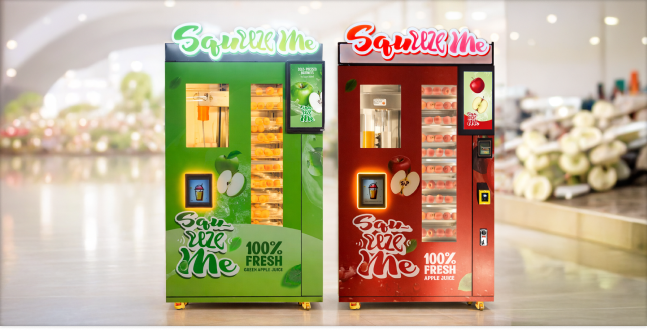
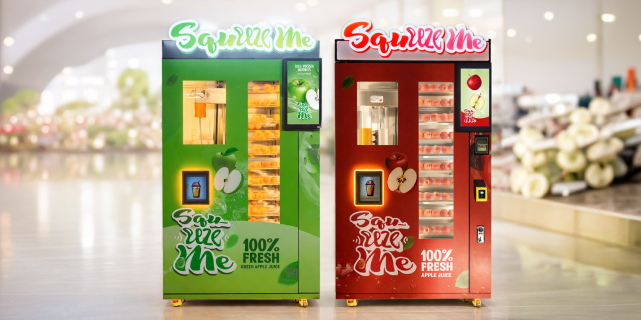
fixed homepage and make section similar to figma exactly

diff --git a/assets/css/style.css b/assets/css/style.css
@@ -178,28 +178,6 @@ ol {
   padding-right: var(--site-px);
 }
 
-.skip-link {
-  position: absolute;
-  left: 1rem;
-  top: 0.75rem;
-  z-index: 100;
-  padding: 0.5rem 0.875rem;
-  border-radius: 0.25rem;
-  background-color: var(--color-brand);
-  color: #fff;
-  font-size: 0.875rem;
-  font-weight: 600;
-  text-decoration: none;
-  transform: translateY(-200%);
-  transition: transform 0.15s ease;
-}
-
-.skip-link:focus {
-  transform: translateY(0);
-  outline: 2px solid #fff;
-  outline-offset: 2px;
-}
-
 .site-header {
   position: sticky;
   top: 0;
@@ -2483,7 +2461,7 @@ ol {
   position: absolute;
   z-index: 0;
   display: block;
-  top: clamp(22%, 17vh, 38%);
+  top: clamp(16%, 12vh, 30%);
   left: -22%;
   width: 145%;
   max-width: none;
@@ -2491,28 +2469,35 @@ ol {
   max-height: min(68vh, 44rem);
   object-fit: cover;
   object-position: 35% 56%;
-  transform: translateY(5.5%);
+  transform: translateY(3%);
   pointer-events: none;
   user-select: none;
 }
 
+@media (max-width: 899px) {
+  .om-section__strip {
+    display: none;
+  }
+}
+
 @media (min-width: 768px) {
   .om-section__strip {
-    top: clamp(20%, 15vh, 34%);
+    top: clamp(14%, 11vh, 28%);
     left: -18%;
     width: 128%;
     max-height: min(72vh, 48rem);
     object-position: 32% 54%;
-    transform: translateY(6.5%);
+    transform: translateY(4%);
   }
 }
 
 @media (min-width: 1100px) {
   .om-section__strip {
+    top: clamp(13%, 10vh, 26%);
     left: -14%;
     width: 118%;
     object-position: 30% 52%;
-    transform: translateY(6.5%);
+    transform: translateY(4%);
   }
 }
 
@@ -2536,46 +2521,77 @@ ol {
     gap: clamp(1.5rem, 3.5vw, 2.5rem);
     align-items: start;
   }
+
+  .om-section__media {
+    grid-column: 1;
+    grid-row: 1;
+  }
+
+  .om-section__copy {
+    grid-column: 2;
+    grid-row: 1;
+  }
 }
 
 .om-section__media {
   position: relative;
   z-index: 1;
+  overflow: visible;
+  margin-bottom: clamp(2.75rem, 9vw, 4.25rem);
 }
 
 .om-section__cards-row {
   position: relative;
   z-index: 3;
   list-style: none;
-  margin: clamp(1.1rem, 2.8vw, 1.5rem) 0 0;
+  margin: 0;
   padding: 0;
   display: grid;
-  grid-template-columns: 1fr;
   gap: 1rem;
   align-items: stretch;
 }
 
-@media (min-width: 640px) {
-  .om-section__cards-row {
-    grid-template-columns: repeat(3, minmax(0, 1fr));
+.om-section__cards-row--copy {
+  margin-top: clamp(1.25rem, 2.5vw, 1.75rem);
+  grid-template-columns: 1fr;
+}
+
+@media (min-width: 520px) {
+  .om-section__cards-row--copy {
+    grid-template-columns: repeat(2, minmax(0, 1fr));
     gap: 1.125rem;
-    align-items: stretch;
   }
 }
 
+.om-section__cards-row--aside {
+  position: absolute;
+  right: 19%;
+  bottom: 0;
+  z-index: 2;
+  width: min(14rem, 50%);
+  margin: 0;
+  grid-template-columns: 1fr;
+  transform: translate(50%, calc(50% + 0.4rem));
+}
+
 @media (min-width: 900px) {
-  .om-section__cards-row {
-    margin-top: clamp(-2rem, -4.5vw, -3.5rem);
+  .om-section__media {
+    margin-bottom: clamp(2rem, 4vw, 3rem);
+  }
+
+  .om-section__cards-row--aside {
+    width: 50%;
+    max-width: 13.5rem;
   }
 }
 
 .om-section__img {
   display: block;
   width: 100%;
-  max-width: 26rem;
+  max-width: 22rem;
   margin: 0 auto;
   height: auto;
-  aspect-ratio: 4 / 5;
+  aspect-ratio: 5 / 4;
   object-fit: cover;
   border-radius: 0.875rem;
   box-shadow: 0 18px 44px -14px rgb(0 0 0 / 0.32), 0 6px 16px -8px rgb(0 0 0 / 0.18);
@@ -2591,6 +2607,7 @@ ol {
 .om-section__copy {
   margin: 0;
   padding: 0;
+  min-width: 0;
 }
 
 .om-section__title {
@@ -2635,9 +2652,11 @@ ol {
 .om-feature {
   margin: 0;
   padding: 1.15rem 1.15rem 1.2rem;
-  border-radius: 0.875rem;
-  background: linear-gradient(180deg, #fff 0%, rgb(255 255 255 / 0.98) 55%, rgb(236 245 255 / 0.92) 100%);
-  box-shadow: 0 14px 36px -10px rgb(15 23 42 / 0.2), 0 4px 12px -6px rgb(15 23 42 / 0.1);
+  border-radius: 0.375rem;
+  background: #ffffffcc;
+  box-shadow: 0 0 4px 0 #0000001a;
+  -webkit-backdrop-filter: blur(60px);
+  backdrop-filter: blur(60px);
   border: 1px solid rgb(230 236 245 / 0.95);
 }
 

diff --git a/index.html b/index.html
@@ -63,6 +63,18 @@
               <img class="om-section__img" src="assets/images/laptop_working.png"
                 alt="Professional using a laptop with a digital interface" width="560" height="720" loading="lazy"
                 decoding="async" />
+              <ul class="om-section__cards-row om-section__cards-row--aside">
+                <li class="om-feature">
+                  <span class="om-feature__icon">
+                    <img class="om-feature__img" src="assets/images/reliable.png" alt="" width="48" height="48"
+                      loading="lazy" decoding="async" />
+                  </span>
+                  <h3 class="om-feature__title">Reliable</h3>
+                  <p class="om-feature__text">
+                    Use advanced technology and operate independently with minimal staff supervision.
+                  </p>
+                </li>
+              </ul>
             </div>
             <div class="om-section__copy">
               <h2 id="om-heading" class="om-section__title">
@@ -80,39 +92,28 @@
                 as commercial car wash machines, helmet washing machines, car mat cleaner machines, and apple juice
                 vending machines.
               </p>
+              <ul class="om-section__cards-row om-section__cards-row--copy">
+                <li class="om-feature">
+                  <span class="om-feature__icon">
+                    <img class="om-feature__img" src="assets/images/convenience.png" alt="" width="48" height="48"
+                      loading="lazy" decoding="async" />
+                  </span>
+                  <h3 id="om-feature-convenience-heading" class="om-feature__title">Convenience</h3>
+                  <p class="om-feature__text">Operate 24/7, allowing customers to visit anytime they want.</p>
+                </li>
+                <li class="om-feature">
+                  <span class="om-feature__icon">
+                    <img class="om-feature__img" src="assets/images/commercial-grade.png" alt="" width="48" height="48"
+                      loading="lazy" decoding="async" />
+                  </span>
+                  <h3 class="om-feature__title">Commercial-grade</h3>
+                  <p class="om-feature__text">
+                    Designed for heavy-duty use and suited for high-traffic locations to serve a wide range of customers.
+                  </p>
+                </li>
+              </ul>
             </div>
           </div>
-
-          <ul class="om-section__cards-row">
-            <li class="om-feature">
-              <span class="om-feature__icon">
-                <img class="om-feature__img" src="assets/images/convenience.png" alt="" width="48" height="48"
-                  loading="lazy" decoding="async" />
-              </span>
-              <h3 id="om-feature-convenience-heading" class="om-feature__title">Convenience</h3>
-              <p class="om-feature__text">Operate 24/7, allowing customers to visit anytime they want.</p>
-            </li>
-            <li class="om-feature">
-              <span class="om-feature__icon">
-                <img class="om-feature__img" src="assets/images/commercial-grade.png" alt="" width="48" height="48"
-                  loading="lazy" decoding="async" />
-              </span>
-              <h3 class="om-feature__title">Commercial-grade</h3>
-              <p class="om-feature__text">
-                Designed for heavy-duty use and suited for high-traffic locations to serve a wide range of customers.
-              </p>
-            </li>
-            <li class="om-feature">
-              <span class="om-feature__icon">
-                <img class="om-feature__img" src="assets/images/reliable.png" alt="" width="48" height="48"
-                  loading="lazy" decoding="async" />
-              </span>
-              <h3 class="om-feature__title">Reliable</h3>
-              <p class="om-feature__text">
-                Use advanced technology and operate independently with minimal staff supervision.
-              </p>
-            </li>
-          </ul>
 
           <div class="om-machines-band">
             <header class="om-machines-head">

diff --git a/includes/header.html b/includes/header.html
@@ -1,6 +1,4 @@
 <header class="site-header">
-  <a class="skip-link" href="#site-main">Skip to content</a>
-
   <div class="site-header__inner">
     <a class="site-brand" href="index.html" aria-label="Beaver Energy home">
       <span class="site-header__logo">